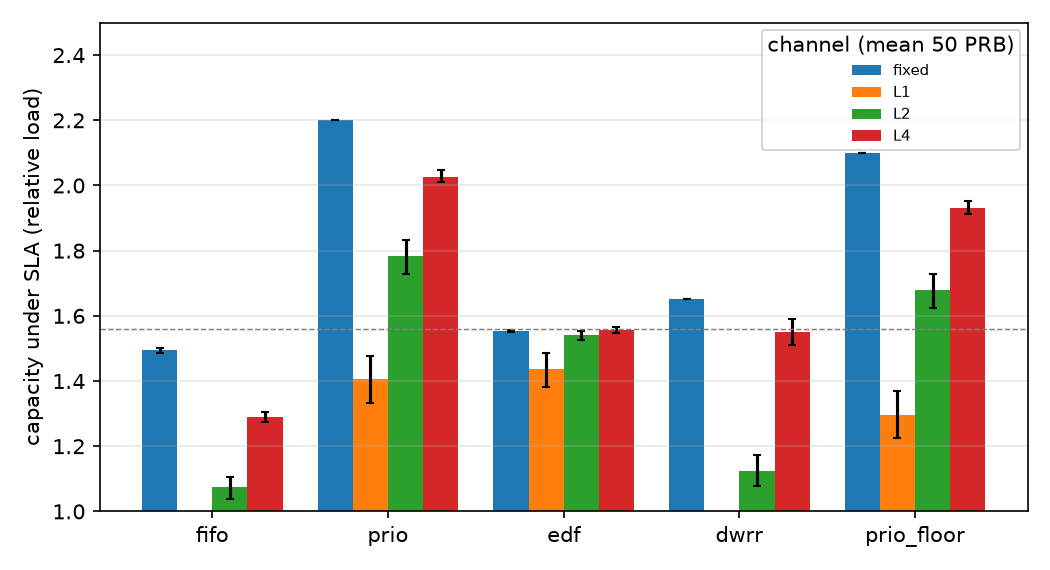
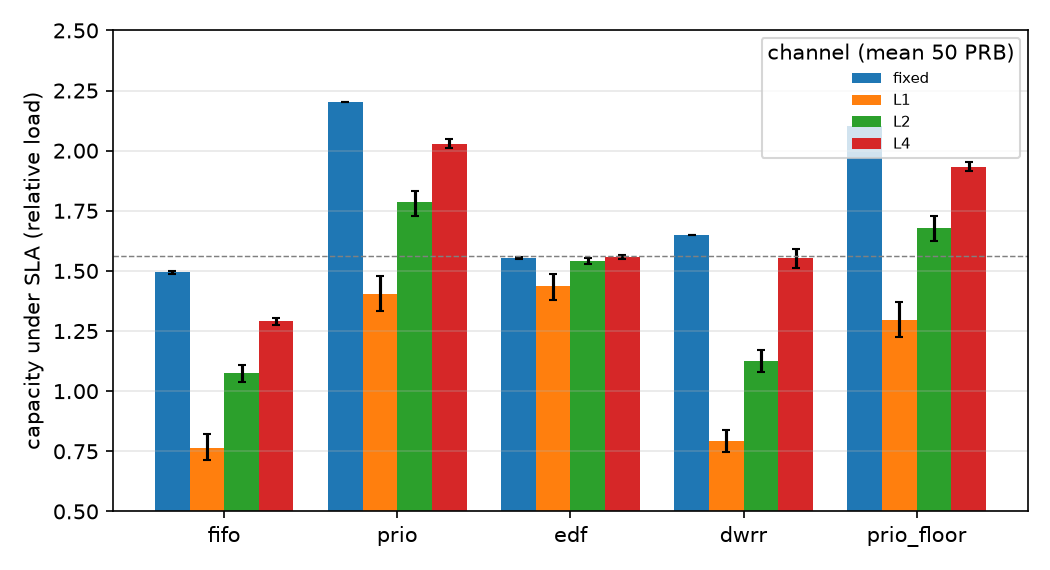
Rewrite README results section and fix capacity plot axis
Present validation, capacity results by policy and channel, key findings,
and conditions in the README. Start the E1 capacity plot y-axis at 0.5 so
the L=1 FIFO and DWRR bars are visible.

diff --git a/analysis/exp_report.py b/analysis/exp_report.py
@@ -125,7 +125,7 @@ def report_e1(ver: list) -> None:
                yerr=[s["C_SLA"] - s["lo"], s["hi"] - s["C_SLA"]], capsize=2, label=sc)
     ax.set_xticks(range(len(POLS)), POLS)
     ax.set_ylabel("capacity under SLA (relative load)")
-    ax.set_ylim(1.0, 2.5)
+    ax.set_ylim(0.5, 2.5)
     ax.axhline(1.56, color="gray", lw=0.7, ls="--")
     ax.legend(title="channel (mean 50 PRB)", fontsize=7)
     ax.grid(axis="y", alpha=0.3)

diff --git a/README.md b/README.md
@@ -13,16 +13,48 @@ This is a slot-level MAC scheduler **simulator**, not a 5G emulator or a full pr
 - **Use it for:** comparing scheduling policies and diversity under congestion, and studying real-time execution effects.
 - **Do not use it for:** absolute 5G throughput or capacity figures, or standards-compliance claims.
 
-## Results at a Glance
+## Results
 
-- Strict priority protects voice and video best: SLA capacity 2.20x on the fixed channel versus 1.49x for FIFO; data is sacrificed first.
-- Four MRC antenna branches raise SLA capacity and reduce seed-to-seed variance (prio: 1.41x with L=1, 2.03x with L=4).
-- The fixed channel is deterministic; variability under Rayleigh fading comes from each seed's fading realization.
-- Short runs (< 10 s, untrimmed) are biased; use 1.0 s warm-up and 0.5 s tail trimming.
+All numbers come from paired-seed experiments on native Linux (`SCHED_FIFO`, pinned CPUs, 1-ms slots, 50 PRB/slot baseline). Full tables, confidence intervals, and hypothesis verdicts: **[results/RESULTS_SUMMARY.md](results/RESULTS_SUMMARY.md)**; protocol: [results/EXPERIMENTS.md](results/EXPERIMENTS.md).
+
+### 1. Does the simulator behave correctly?
+
+- **Channel model matches theory.** Simulated Rayleigh outage probability follows the Gamma(L, 1) MRC distribution (max error 0.02 decades for P > 1e-3), and the level-crossing rate matches Clarke's formula within 2%.
+- **No machine noise.** With the fixed channel, capacity has zero seed-to-seed variance, so all variability in the other scenarios comes from the fading realization, not from scheduling jitter.
+- **Analytic sanity check.** EDF capacity stays between 1.44x and 1.56x in every channel, close to the fluid saturation bound of 1.56x (dashed line in the bar chart below).
+
+![Channel validation: outage probability and level-crossing rate versus theory](results/outage_validation.png)
+
+### 2. What the simulator shows
+
+SLA capacity is the largest load (relative to a 50 PRB/slot baseline) at which voice and video both keep on-time delivery of at least 99%. Rayleigh channels have the same mean PRBs; L is the number of MRC antenna branches (20 seeds, 95% CI in `results/`).
+
+| Channel | FIFO | DWRR | EDF | Strict priority |
+|---|---|---|---|---|
+| Fixed | 1.49 | 1.65 | 1.55 | **2.20** |
+| Rayleigh, L=1 | 0.77 | 0.79 | 1.44 | **1.41** |
+| Rayleigh, L=2 | 1.07 | 1.12 | 1.54 | **1.78** |
+| Rayleigh, L=4 | 1.29 | 1.55 | 1.56 | **2.03** |
 
 ![SLA capacity by policy and channel](results/exp/E1_capacity.png)
 
-Full results, hypothesis verdicts, strengths, and limitations: **[results/RESULTS_SUMMARY.md](results/RESULTS_SUMMARY.md)**. Protocol: [results/EXPERIMENTS.md](results/EXPERIMENTS.md).
+![Voice/video QoS versus load for each channel](results/exp/E1_qos_vs_load.png)
+
+Key findings:
+
+- **Policy matters most.** Strict priority raises capacity by +0.64 over FIFO under fading. FIFO collapses abruptly (voice QoS from about 1.0 to near 0 between 1.4x and 1.6x on the fixed channel), while priority degrades gracefully and sacrifices data first.
+- **Diversity helps every policy.** Going from L=1 to L=4 adds +0.52 (FIFO), +0.62 (priority), and +0.76 (DWRR) of capacity, and also cuts the seed-to-seed spread (priority capacity std 0.17 to 0.04).
+- **Fading is costly.** Under single-antenna Rayleigh fading, FIFO and DWRR cannot meet the SLA at the nominal load (capacity below 1.0).
+- **Policy beats diversity, but not by much.** Policy gain +0.64 versus diversity gain +0.52 (difference +0.12 [0.03, 0.20]); the verdict is kept as inconclusive.
+- **Robust to shadowing.** With 6 dB log-normal shadowing, the policy and diversity gains persist (priority over FIFO +0.58 to +0.66, L=4 over L=1 +0.36 to +0.44), but one cell position can differ a lot from another: per-seed capacity ranges from about 0.3x to 3x.
+- **Guaranteed-minimum floors have a cost.** A 1-2 PRB floor for data cuts starvation from up to 525 ms to 3 ms under fading but costs video QoS (up to -0.15 at 2.0x), so it is not a free fix.
+- **Burst alignment and speed.** With staggered bursts the policy ranking does not change; at 1.8x only priority and DWRR keep voice QoS at 1.0, while FIFO delivers 0. Higher mobility slightly improves voice QoS (+0.03 at 30 m/s versus 0.3 m/s, priority, 1.5x, L=1), because faster fading averages out within the deadline.
+- **Short runs mislead.** Untrimmed runs shorter than 10 s differ by up to 0.30 QoS from 20-s trimmed references, so the experiments use a 1.0 s warm-up and 0.5 s tail trim.
+
+### 3. Conditions and limits
+
+- Results hold for the modeled traffic (voice, video, Poisson data), one representative user, and synchronous bursts; they are comparisons between policies, not absolute 5G capacity figures (see [Scope](#scope)).
+- Seed-to-seed variability is intrinsic to fading; use paired differences, quantiles, and many seeds, as done here. See [docs/RUNNING_EXPERIMENTS.md](docs/RUNNING_EXPERIMENTS.md) to reproduce everything with `scripts/reproduce.sh full`.
 
 ## Quick Start
 
